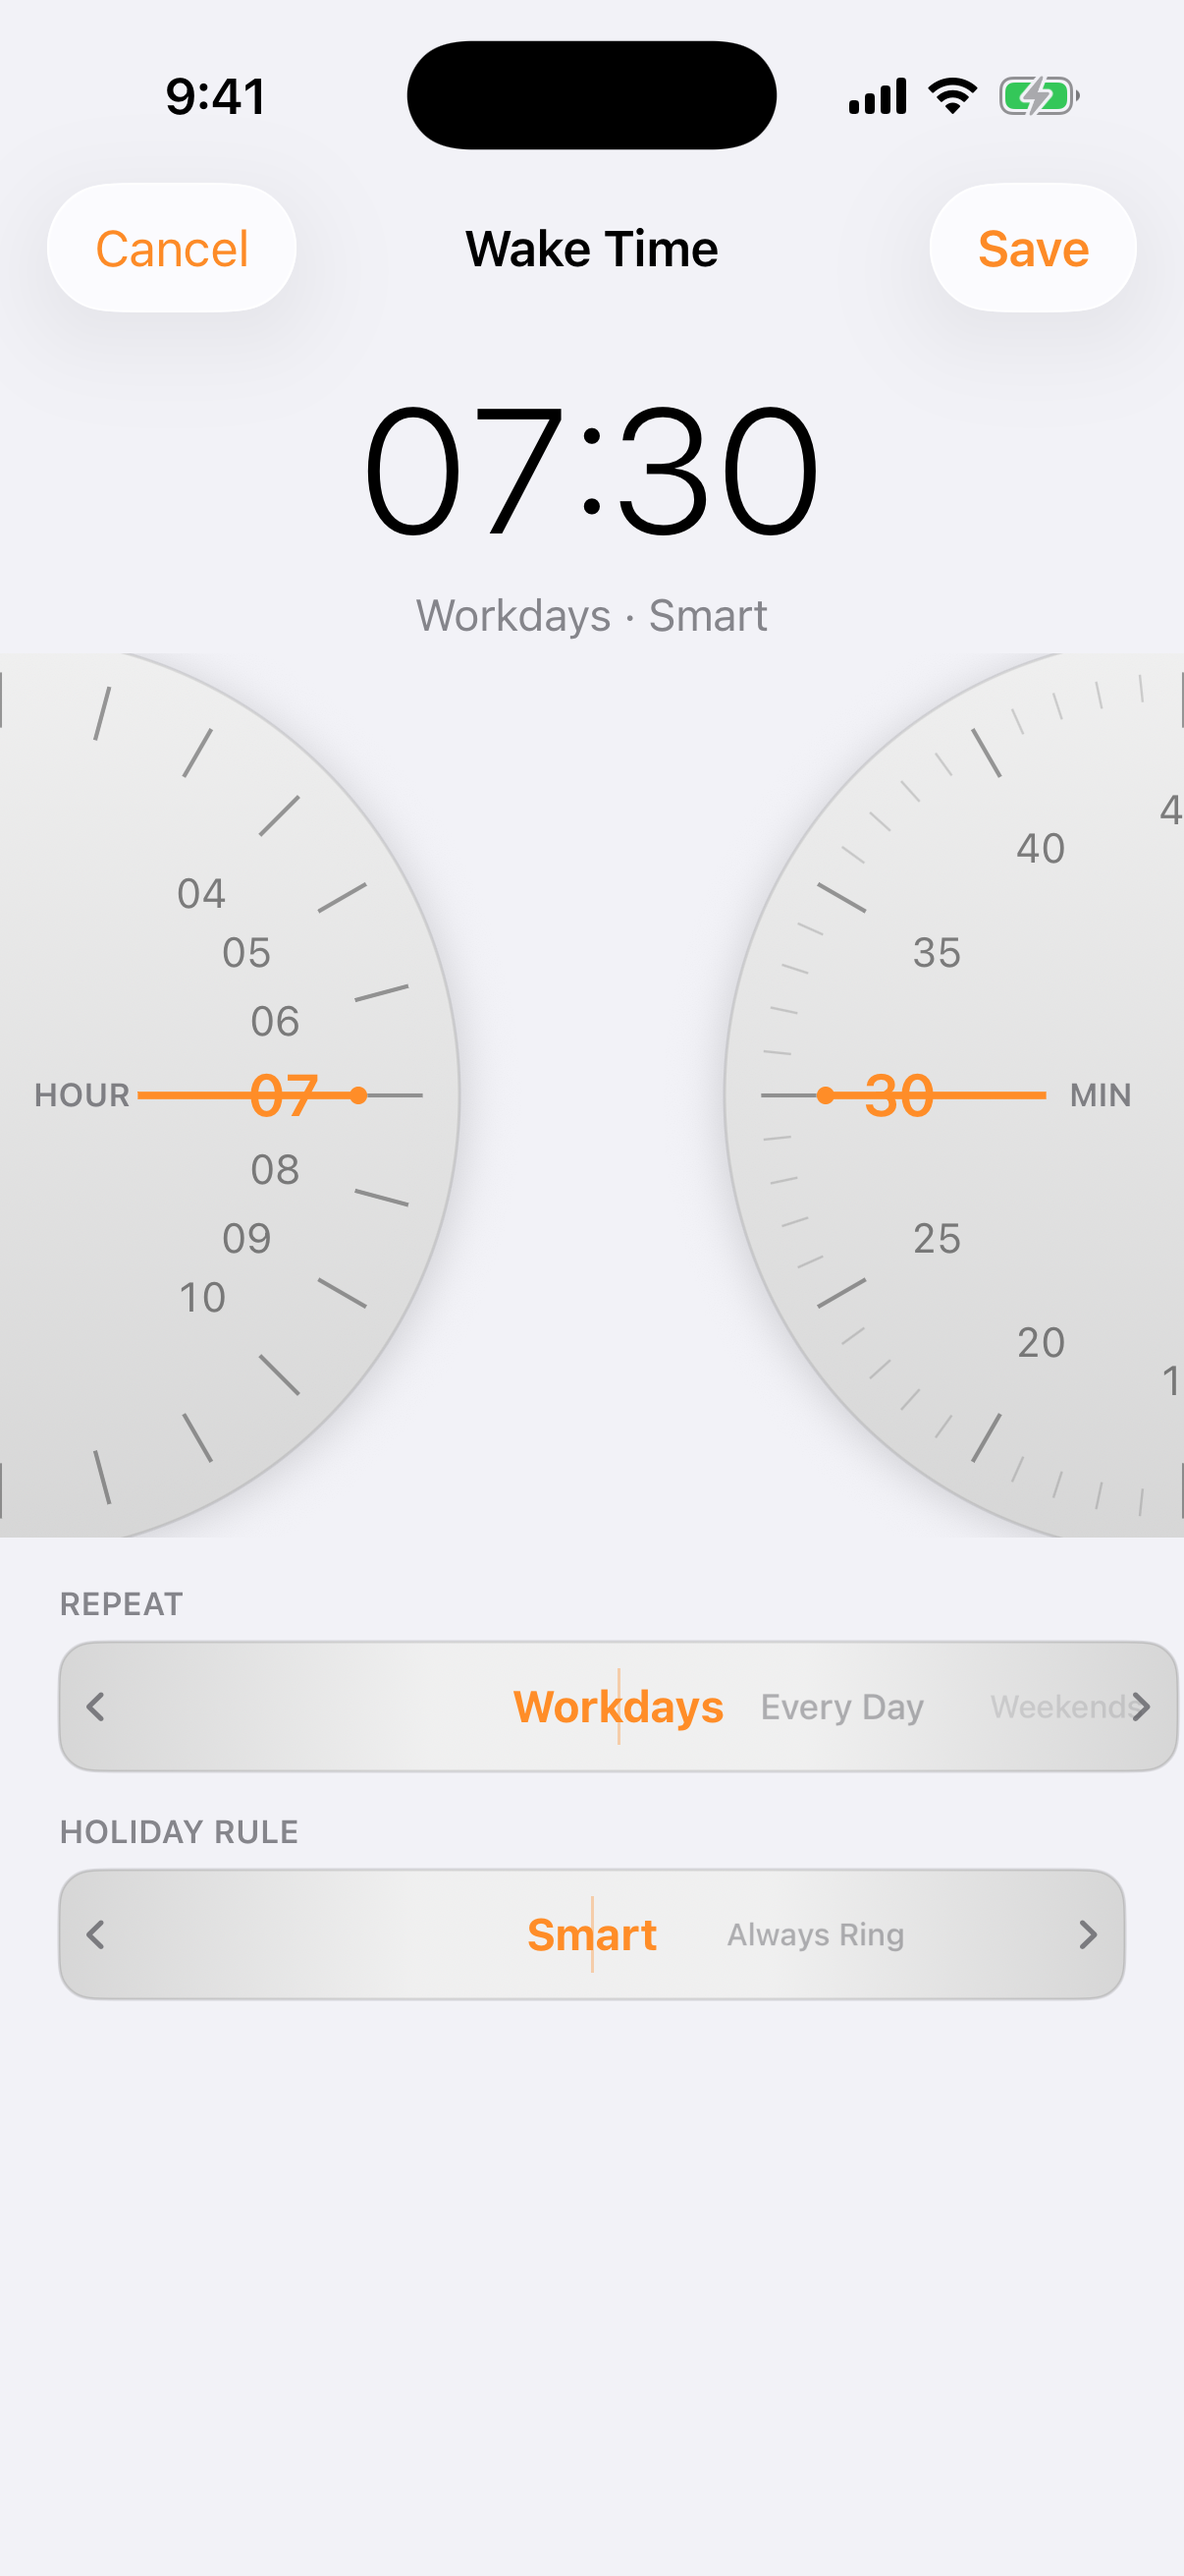
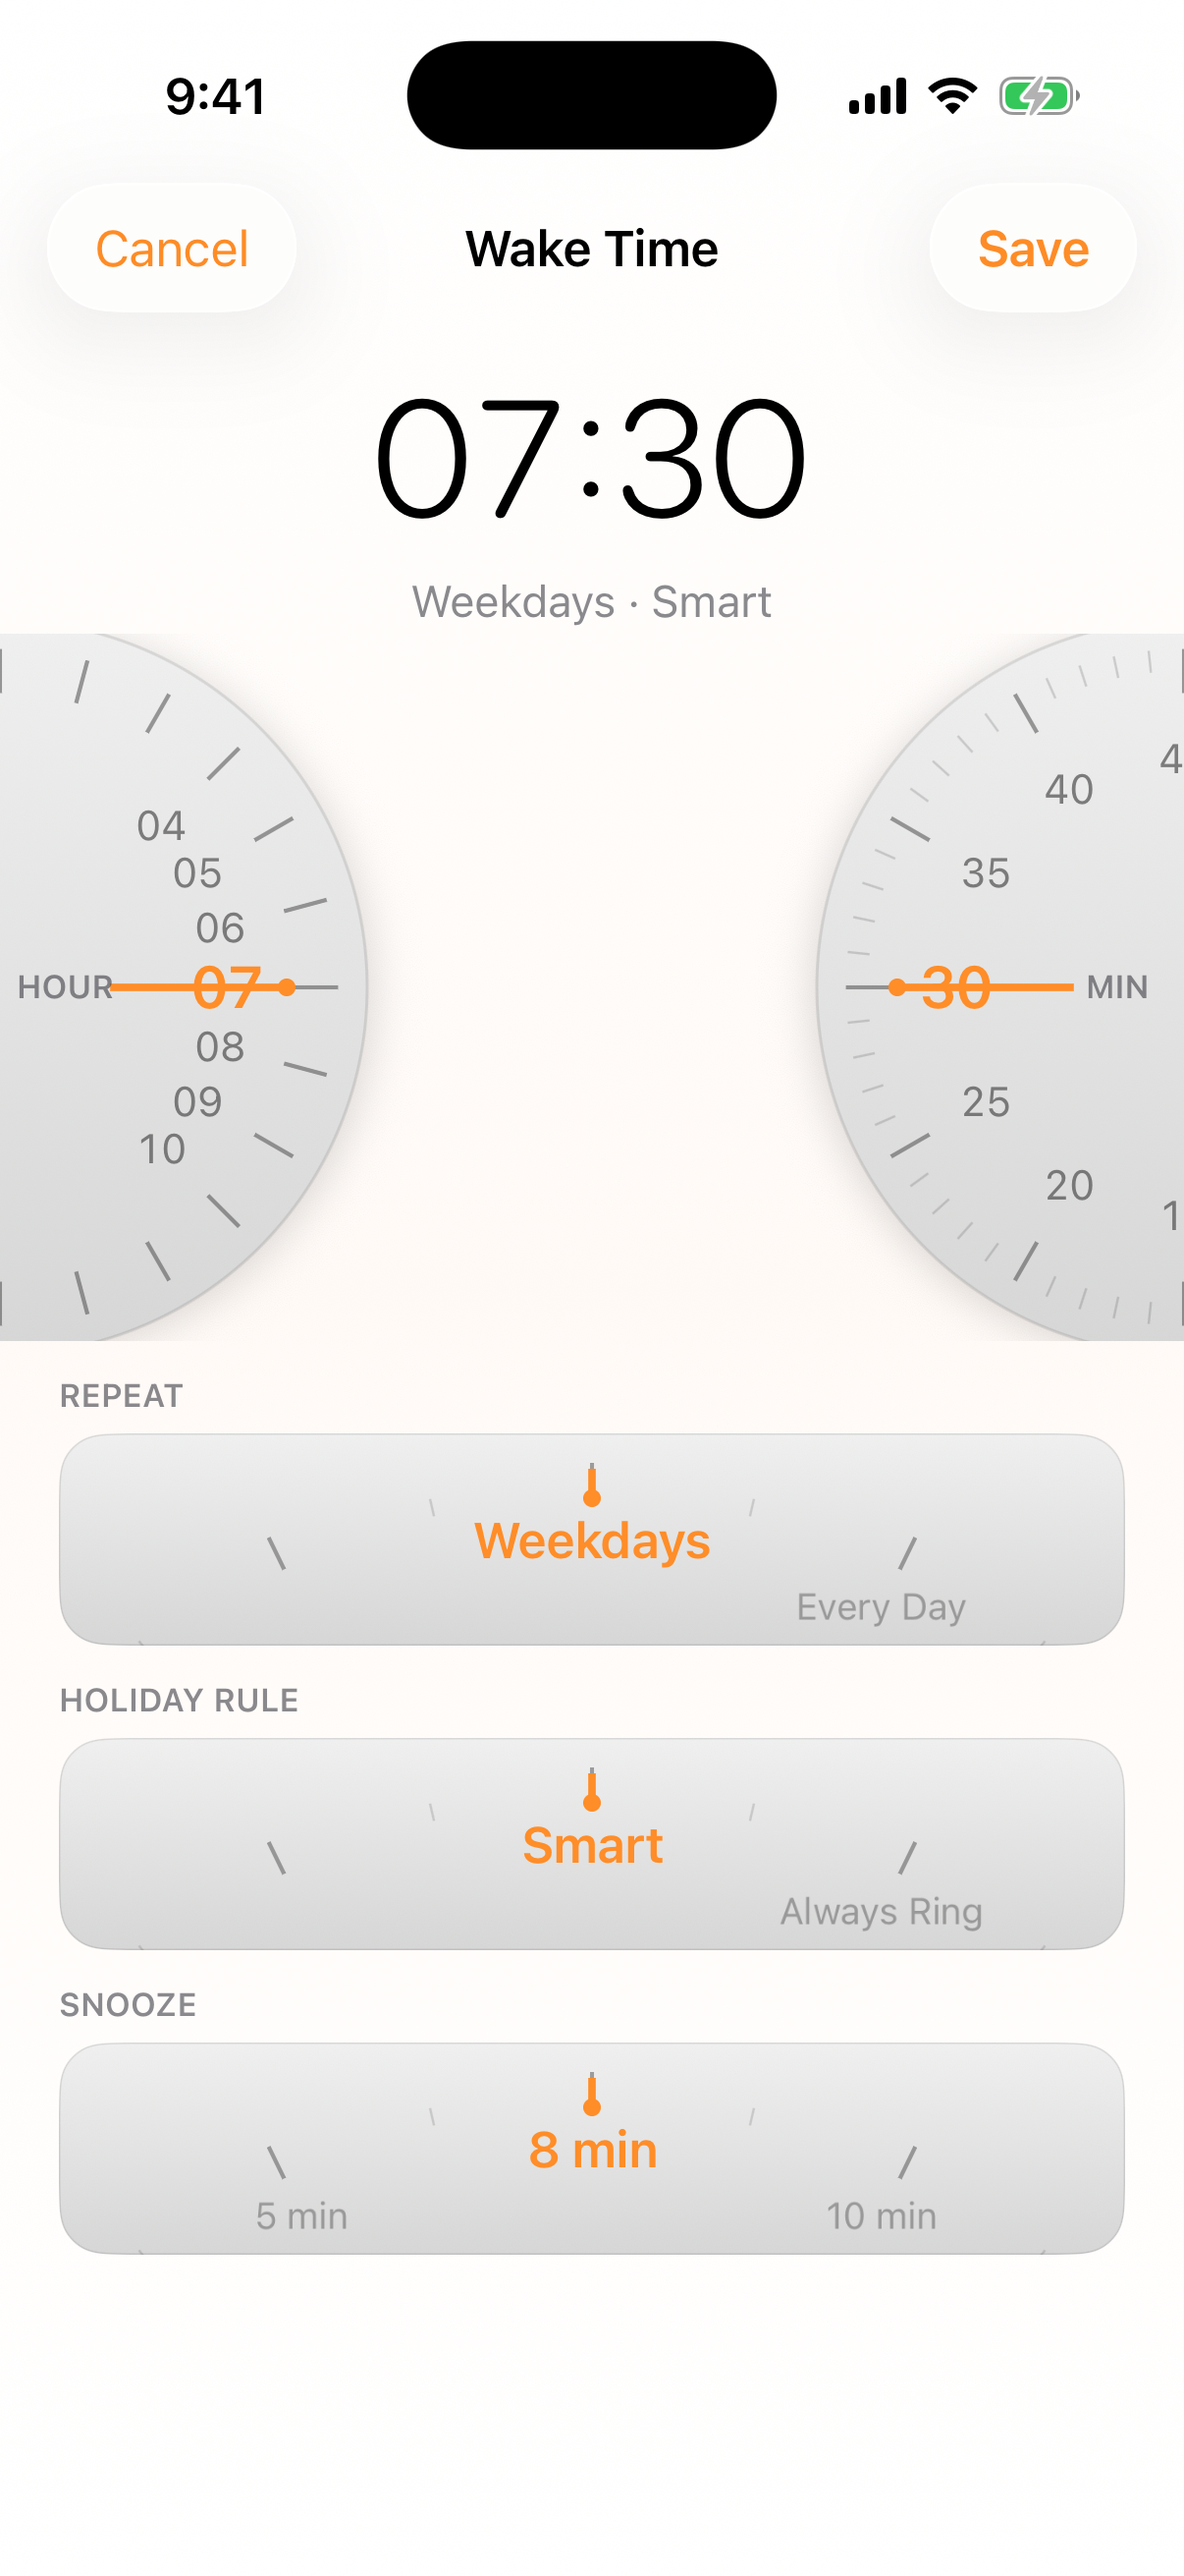
docs: refresh Simulator screenshots and document option dials, snooze and holiday catalog

diff --git a/README.md b/README.md
@@ -24,10 +24,15 @@ Captured by GitHub Actions on `macos-26` running the iOS Simulator in light appe
   <img src="docs/screenshots/05-widgets-and-byok.png" width="19%" alt="Home Screen Widgets">
 </p>
 
+<p align="center">
+  <img src="docs/screenshots/06-holiday-country-search.png" width="19%" alt="Add Holidays Country Search">
+  <img src="docs/screenshots/07-repeat-holiday-snooze-dials.png" width="19%" alt="Repeat, Holiday Rule and Snooze Dials">
+</p>
+
 | 1. Alarm (`TwoDayDashboardView`) | 2. Wake Time (`TimeEditorView`) |
 | :---: | :---: |
 | <img src="docs/screenshots/01-two-day-dashboard.png" width="88%" alt="Alarm Tab Light Theme"> | <img src="docs/screenshots/02-dual-thumb-dial.png" width="88%" alt="Semicircle Dials & Thumbwheel Rollers"> |
-| A plain `List` shows **Today** and **Tomorrow** with the effective wake time in large light digits, or `Off` / `Skipped`, plus a short reason line when relevant (a holiday, a makeup workday, a delay). `Skip` / `+30 min` / `Restore` apply to tomorrow only and restore automatically the day after. | The signature interaction: two `SemicircleDial` half-discs anchored to the screen edges for the hour and minute, and two `ThumbwheelRoller` rows below for repeat mode (`Workdays` / `Every Day` / `Weekends` / `Custom` / `Once`) and holiday rule (`Smart` / `Always Ring`). |
+| A plain `List` shows **Today** and **Tomorrow** with the effective wake time in large light digits, or `Off` / `Skipped`, plus a short reason line when relevant (a holiday, a makeup workday, a delay). `Skip` / `+30 min` / `Restore` apply to tomorrow only and restore automatically the day after. | The signature interaction: two `SemicircleDial` half-discs anchored to the screen edges for the hour and minute, plus three compact `RotaryOptionDial` controls for repeat mode (`Workdays` / `Every Day` / `Weekends` / `Custom` / `Once`), holiday rule (`Smart` / `Always Ring`) and the snooze interval (`5` / `8` / `10` / `15` / `20` minutes, default `8`). |
 
 | 3. Calendar (`HolidayCalendarView`) | 4. Sources (`SettingsView`) |
 | :---: | :---: |
@@ -39,19 +44,26 @@ Captured by GitHub Actions on `macos-26` running the iOS Simulator in light appe
 | <img src="docs/screenshots/05-widgets-and-byok.png" width="44%" alt="Small and Medium Home Screen Widgets"> |
 | The small and medium Home Screen widgets, reusing the exact SwiftUI views from `iOS/Shared/WidgetViews.swift`. The medium widget shows both days with interactive `Skip` / `+30 min` / `Restore` buttons — no need to open the app. A nightly bedtime reminder notification previews tomorrow's status with the same one-tap actions available via long-press. |
 
+| 6. Add Holidays (`HolidayCatalogSearchSheet`) | 7. Option Dials (`RotaryOptionDial`) |
+| :---: | :---: |
+| <img src="docs/screenshots/06-holiday-country-search.png" width="88%" alt="Searchable Holiday Catalog"> | <img src="docs/screenshots/07-repeat-holiday-snooze-dials.png" width="88%" alt="Repeat, Holiday Rule and Snooze Option Dials"> |
+| A searchable catalog of 53 national public holiday feeds. Type a country name or code, tap `Add`, and the feed joins the Sources list as a normal `.ics` subscription. | Repeat, holiday rule and snooze use the same rotary language as the time dials instead of dropdowns or rollers. |
+
 ---
 
 ## Core Features
 
 1. **Two reusable skeuomorphic controls, used nowhere else** (`iOS/Shared/SemicircleDial.swift`, `iOS/Shared/ThumbwheelRoller.swift`):
    - `SemicircleDial` — a half-disc rotary dial anchored to a screen edge, rotated with a circular drag gesture, with fine tick marks and a fixed orange index notch. Used for the hour (0–23) and minute (0–59).
-   - `ThumbwheelRoller` — a horizontal cylinder of text options with the center value bold and neighbors fading toward the edges. Replaces dropdowns for repeat mode and holiday rule.
+   - `RotaryOptionDial` — a compact dial for a small set of named options, with the current value at the index notch and neighbors curving away. Used for repeat mode, holiday rule and snooze interval.
+   - `ThumbwheelRoller` — a horizontal cylinder of text options with the center value bold and neighbors fading toward the edges, used where a long list of values has to stay compact.
 2. **Built-in calendar & events manager** (`HolidayCalendarView`):
    - Month grid with colored day markers, full CRUD (title, date, kind, note) for holidays, makeup workdays, and personal leave, plus a BYOK AI notice parser.
 3. **External `.ics` subscriptions & iOS Calendar (`EventKit`) access** (`SettingsView`):
    - On-device, read-only `EventKit` scanning of selected local/iCloud/Exchange calendars against custom leave keywords (`PTO`, `Leave`, `Vacation`, `Annual Leave`, `Day Off`, `Sick Leave`).
-   - Built-in China statutory holiday and Singapore MOM public holiday feeds, plus any custom `.ics` / `webcal` link.
-4. **One-tap next-day override, auto-restoring** (`NextDayOverride`):
+   - Built-in China statutory holiday feed (including makeup workdays, which the Google feeds do not carry) and Singapore MOM public holidays, a searchable catalog of 53 national public holiday feeds, plus any custom `.ics` / `webcal` link. Google holiday feeds are classified so observances and regional-only days do not silently skip a workday.
+4. **Snooze interval** — persisted in the shared store, default `8` minutes, used by the notification snooze action and the scheduling engine.
+5. **One-tap next-day override, auto-restoring** (`NextDayOverride`):
    - `Skip` or delay tomorrow's alarm in one tap; the override is scoped to a single date (`targetDate = YYYY-MM-DD`) and automatically expires the day after, restoring the normal schedule.
 
 ---
@@ -60,7 +72,7 @@ Captured by GitHub Actions on `macos-26` running the iOS Simulator in light appe
 
 - **`VibeAlarmCore`** — a dependency-free Swift package with the scheduling engine (`AlarmScheduleEngine`), models, the zero-network `.ics` parser (`ICSHolidayParser`), the BYOK LLM + offline natural-language holiday extractor (`BYOKHolidayService`), and the shared App Group persistence layer (`SharedAlarmStore`). Fully unit tested.
 - **`iOS/App`** — the SwiftUI app target: three tabs (`Alarm`, `Calendar`, `Sources`), the wake time editor (`TimeEditorView`), the view model (`AppViewModel`), on-device `EventKit` access (`LocalCalendarManager`), and Keychain storage (`KeychainHelper`).
-- **`iOS/Shared`** — code shared between the app and the widget extension: the two skeuomorphic controls, the pure SwiftUI widget views (`WidgetViews.swift`), `AppIntents` for Siri/Shortcuts/interactive widget actions, the notification scheduler, and app-wide constants.
+- **`iOS/Shared`** — code shared between the app and the widget extension: the skeuomorphic controls (`SemicircleDial`, `RotaryOptionDial`, `ThumbwheelRoller`), the pure SwiftUI widget views (`WidgetViews.swift`), `AppIntents` for Siri/Shortcuts/interactive widget actions, the notification scheduler, and app-wide constants.
 - **`iOS/Widget`** — the WidgetKit extension with `SystemSmall` and `SystemMedium` Home Screen widgets, built from the shared widget views.
 
 ## Build & Test
